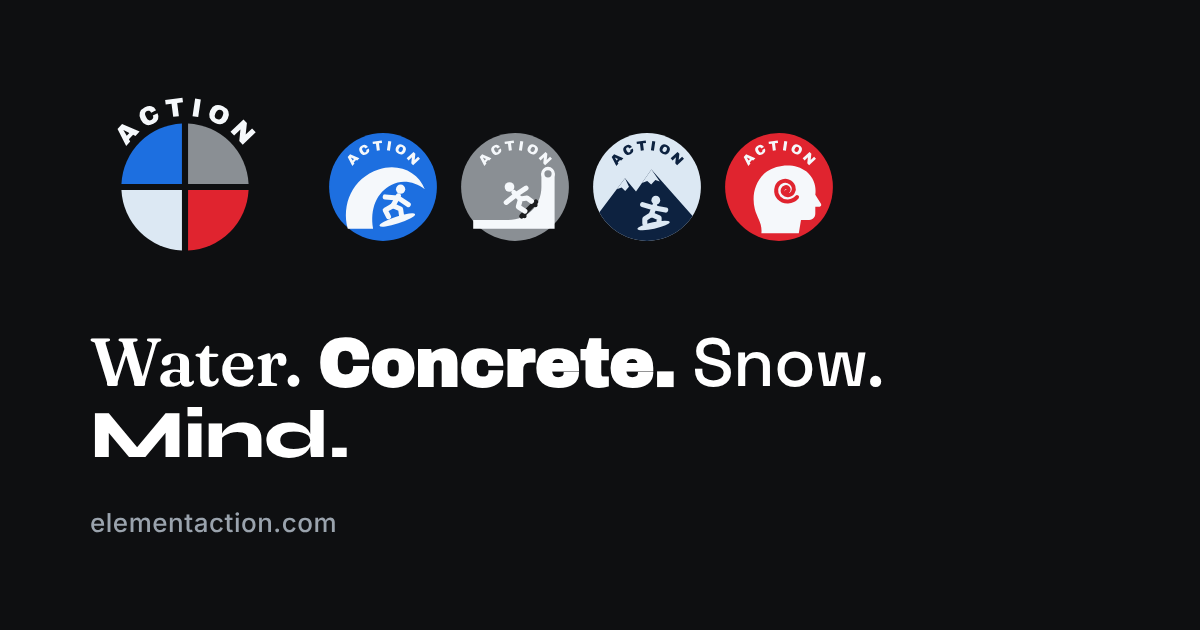
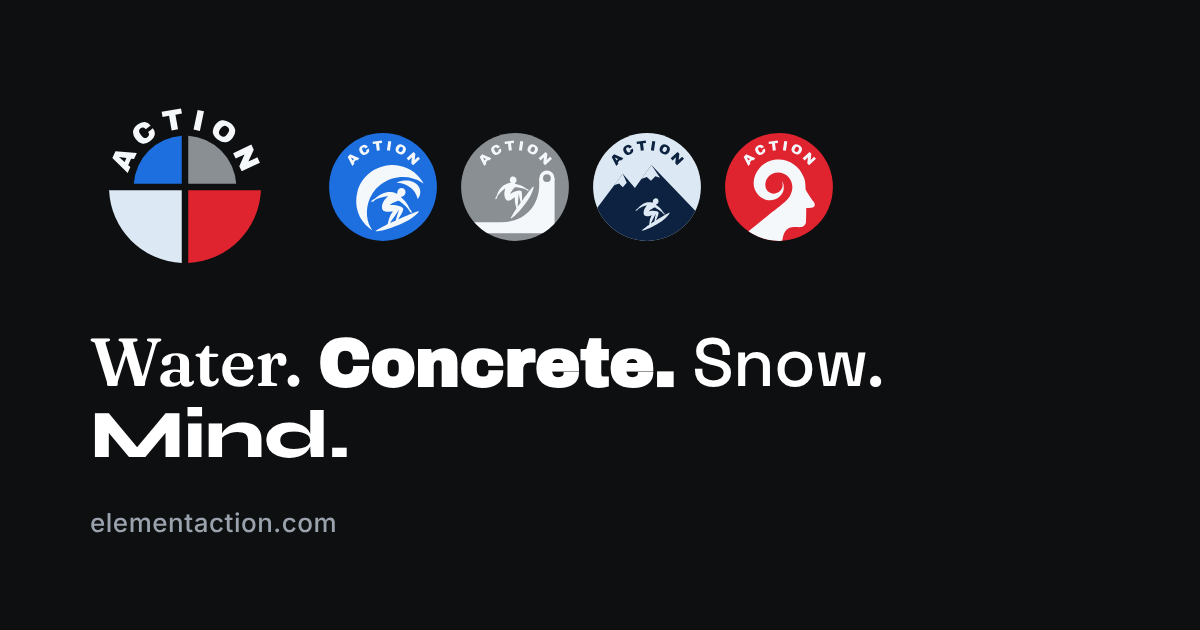
Märkena efter Martins utkast: spårade motiv för Water och Mind, rundmärket med mindre övre fält
Claude-Session: https://claude.ai/code/session_01STPYKS9MGx6UKJyGrrjUNw

diff --git a/src/components/Logo.tsx b/src/components/Logo.tsx
@@ -1,20 +1,22 @@
 import type { SectionId } from '@/lib/sections';
 import { ACTION_ARC_BADGE, ACTION_ARC_RING } from './brand-paths';
+import { MIND_HEAD, WATER_RIDER, WATER_WAVE } from './brand-traced';
 
 /**
  * ELEMENTACTIONS MÄRKEN — ritade efter Martins egna utkast.
  *
- * Huvudmärket: en cirkel delad i fyra färgfält (vatten blått, betong
- * grått, snö isvitt, mind rött) med en smal glipa emellan, och ordet
- * ACTION längs övre bågen. Ingen ytterring. Ordet "Element" står aldrig
- * i märket.
+ * Huvudmärket (efter Martins utkast): en cirkel delad i fyra färgfält
+ * (vatten blått, betong grått, snö isvitt, mind rött) med en glipa
+ * emellan. De övre fälten är mindre, och ordet ACTION ligger i bågen
+ * ovanför dem. Ordet "Element" står aldrig i märket.
  *
  * Sektionsmärkena: en rund bricka i sektionens färg, ACTION överst och
- * ett motiv i mitten:
- *   Water action     surfare i en brytande våg
- *   Concrete action  skejtare på väg upp i en quarterpipe
- *   Snow action      snowboardåkare som carvar under en bergstopp
- *   Mind action      huvud i profil med en spiral (tanken)
+ * ett motiv i mitten. Water och Mind är spårade från Martins utkast; samma
+ * åkarfigur används i Concrete och Snow så att alla fyra hänger ihop:
+ *   Water action     surfare i en brytande våg (Martins utkast)
+ *   Concrete action  åkaren på väg upp i en quarterpipe
+ *   Snow action      åkaren mot en bergssida med snötoppar
+ *   Mind action      huvud i profil med en spiral (Martins utkast)
  *
  * I små storlekar (menyn, mobilens bottenrad) går detaljerna inte att
  * se, så där används en förenklad variant: samma bricka utan text, med
@@ -35,82 +37,50 @@ export const BADGE: Record<SectionId, { bg: string; ink: string; text: string }>
   inspiration: { bg: '#e0242f', ink: WHITE, text: WHITE }
 };
 
-/** Detaljerade motiv i en 100×100-bricka, under ACTION-bågen. */
+/**
+ * Detaljerade motiv i en 100×100-bricka, under ACTION-bågen.
+ * Vågen, surfaren och huvudet är spårade direkt från Martins utkast
+ * (brand-traced.ts). Samma åkarfigur används i Concrete och Snow så att
+ * alla fyra märken har samma teckning.
+ */
+const BELOW_TEXT = 'translate(50 57) scale(0.8) translate(-50 -50)';
+
 function Motif({ section }: { section: SectionId }) {
   const { ink, bg } = BADGE[section];
-  const limb = { fill: 'none', stroke: ink, strokeWidth: 4.6, strokeLinecap: 'round' as const, strokeLinejoin: 'round' as const };
   switch (section) {
     case 'surfing':
       return (
-        <>
-          {/* vågen: en bred skärva som reser sig och rullar över */}
-          <path
-            d="M18 88C12 66 22 42 46 34c18-6 36 2 42 18-9-7-21-9-30-4-14 7-20 22-17 40z"
-            fill={ink}
-          />
-          {/* surfaren i tuben */}
-          <ellipse cx="63" cy="80" rx="17" ry="3.2" transform="rotate(-18 63 80)" fill={ink} />
-          <circle cx="66" cy="52" r="4.2" fill={ink} />
-          <path d="M64 58l-5 9" {...limb} />
-          <path d="M59 67l7 3 1 7M59 67l-7 4 3 6" {...limb} />
-          <path d="M63 60l-11-1M64 60l9 6" {...limb} />
-        </>
+        <g transform={BELOW_TEXT}>
+          <path d={WATER_WAVE} fill={ink} fillRule="evenodd" />
+          <path d={WATER_RIDER} fill={ink} fillRule="evenodd" />
+        </g>
       );
     case 'skateboard':
       return (
         <>
           {/* quarterpipe: flat, transition, lodrät vägg och coping */}
-          <path d="M12 88V80h32c17 0 30-13 30-30V38h12v50z" fill={ink} />
-          <circle cx="80" cy="38" r="4.8" fill={bg} stroke={ink} strokeWidth="3" />
-          {/* skejtaren på väg upp i transitionen: brädan längs ytan, kroppen lutad in mot rampen */}
-          <path d="M56 76.5l13-13" stroke="#1c1d1f" strokeWidth="4.4" strokeLinecap="round" />
-          <circle cx="58.6" cy="76.4" r="2" fill="#1c1d1f" />
-          <circle cx="68.6" cy="66.4" r="2" fill="#1c1d1f" />
-          <circle cx="45" cy="50" r="4.4" fill={ink} />
-          <path d="M49 55l6 6" {...limb} />
-          <path d="M55 61l-2 7 6 4M55 61l6-1 4 3" {...limb} />
-          <path d="M51 57l-9 7M51 57l9-6" {...limb} />
+          <path d="M10 92V82h28c20 0 34-14 34-34V42h14v50z" fill={ink} />
+          <circle cx="79" cy="42" r="5.2" fill={bg} stroke={ink} strokeWidth="3.4" />
+          {/* åkaren på väg upp i transitionen, lutad mot rampen */}
+          <g transform="translate(50 57) rotate(-30) scale(0.66) translate(-63 -66)">
+            <path d={WATER_RIDER} fill={ink} fillRule="evenodd" />
+          </g>
         </>
       );
     case 'snowboard':
       return (
         <>
-          <defs>
-            <clipPath id="ea-snow-clip">
-              <circle cx="50" cy="50" r="49" />
-            </clipPath>
-          </defs>
-          {/* bergskedjan med snötäcke, fyller brickans nedre del */}
-          <g clipPath="url(#ea-snow-clip)">
-            <path d="M0 82 30 42l10 12 14-20 46 52v20H0z" fill={ink} />
+          {/* bergskedjan med snötäcke */}
+          <path d="M-2 78 28 38l11 13 15-21 48 50v28H-2z" fill={ink} />
+          <path d="M28 38l-8 10.4 4.6-1.6 3.4 3.4 3.6-4zM54 30l-9.2 12.8 5-1.8 3.8 3.4 4-4.2 4.2 1.4z" fill={bg} />
+          {/* åkaren i ljust mot bergssidan */}
+          <g transform="translate(53 72) rotate(-8) scale(0.56) translate(-60 -62)">
+            <path d={WATER_RIDER} fill={bg} fillRule="evenodd" />
           </g>
-          <path d="M30 42l-7.5 10 4.4-1.6 3.3 3.2 3.4-3.8zM54 34l-8.6 12.3 4.8-1.8 3.6 3.2 3.8-4 4 1.4z" fill={bg} />
-          {/* åkaren i vitt mot bergssidan, carvar åt vänster */}
-          <ellipse cx="56" cy="85" rx="15" ry="3" transform="rotate(-12 56 85)" fill={bg} />
-          <circle cx="58" cy="62" r="4" fill={bg} />
-          <path d="M57 67l-3 8" stroke={bg} strokeWidth="4.6" strokeLinecap="round" fill="none" />
-          <path d="M54 75l7 3 0 5M54 75l-6 4 0 4" stroke={bg} strokeWidth="4.6" strokeLinecap="round" strokeLinejoin="round" fill="none" />
-          <path d="M56 69l-10-3M57 69l10 2" stroke={bg} strokeWidth="4.6" strokeLinecap="round" fill="none" />
         </>
       );
     case 'inspiration':
-      return (
-        <>
-          {/* huvud i profil som tittar åt höger, med nacke */}
-          <path
-            d="M34 92c1-9-4-14-6-22-3-12 0-26 11-34 10-7 26-8 36 0 7 6 9 14 8 21l5 8c1 2 0 3-2 3h-3v6c0 4-3 6-7 6h-6l-2 12z"
-            fill={ink}
-          />
-          {/* spiralen: tanken som vecklar ut sig */}
-          <path
-            d="M57 54c1.6 0 2.4-1.6 1.4-2.9-1.3-1.7-4.2-1.1-4.9 1-.9 2.9 1.6 5.6 4.7 5.4 4-.2 6.2-4.3 4.9-8-1.6-4.7-7.3-6.4-11.4-4-5.1 2.9-5.6 10.2-1.8 14.3 4.4 4.7 12.3 4.3 16.5-.6"
-            fill="none"
-            stroke={bg}
-            strokeWidth="3.6"
-            strokeLinecap="round"
-          />
-        </>
-      );
+      return <path d={MIND_HEAD} fill={ink} fillRule="evenodd" />;
   }
 }
 
@@ -164,11 +134,18 @@ export function SectionMark({ section, size = 32, className, title, detail }: Ma
       aria-label={title}
       aria-hidden={title ? undefined : true}
     >
+      <defs>
+        <clipPath id={`ea-badge-${section}`}>
+          <circle cx="50" cy="50" r="49" />
+        </clipPath>
+      </defs>
       <circle cx="50" cy="50" r="49" fill={bg} />
       {full ? (
         <>
           <path d={ACTION_ARC_BADGE} fill={text} />
-          <Motif section={section} />
+          <g clipPath={`url(#ea-badge-${section})`}>
+            <Motif section={section} />
+          </g>
         </>
       ) : (
         <SimpleMotif section={section} />
@@ -177,13 +154,17 @@ export function SectionMark({ section, size = 32, className, title, detail }: Ma
   );
 }
 
-const R = 33.5; // färgcirkelns radie
-const GAP = 1.6; // halva glipan mellan fälten
-const E = Math.sqrt(R * R - GAP * GAP); // där glipans kant möter cirkeln
+// Efter Martins utkast: de nedre fälten har full radie, de övre är mindre
+// så att ACTION får plats i bågen ovanför dem.
+const R_LOW = 40;
+const R_TOP = 27;
+const GAP = 1.7; // halva glipan mellan fälten
 const f = (n: number) => n.toFixed(2);
 
 /** Ett kvartsfält med glipa. sx/sy = riktning (−1 vänster/upp, +1 höger/ned). */
 function quadrant(sx: number, sy: number) {
+  const R = sy < 0 ? R_TOP : R_LOW;
+  const E = Math.sqrt(R * R - GAP * GAP);
   const x0 = 50 + sx * GAP;
   const y0 = 50 + sy * GAP;
   const sweep = sx * sy < 0 ? 1 : 0;

diff --git a/src/components/brand-paths.ts b/src/components/brand-paths.ts
@@ -1,5 +1,5 @@
 // Genererad av scripts/staging/action_arc.py — ordet ACTION som banor längs en övre båge.
 // RING: runt rundmärkets färgcirkel. BADGE: inuti ett sektionsmärke.
-export const ACTION_ARC_RING = "M23.93 23.11 22.69 22.5 20.45 24.91 21.15 26.1 19.05 28.37 14.49 19.46 16.88 16.89 26.11 20.76ZM19.34 23.02 20.72 21.53 17.6 19.97 17.56 20.01Z M34.77 9.58 32.2 10.89Q31.83 10.16 31.23 9.93Q30.63 9.69 29.92 10.05Q29.1 10.47 28.98 11.17Q28.86 11.88 29.32 12.79L29.72 13.57Q30.17 14.47 30.82 14.8Q31.47 15.12 32.26 14.72Q33.04 14.32 33.24 13.72Q33.43 13.11 33.06 12.38L35.55 11.12Q36.42 12.84 35.83 14.29Q35.24 15.73 33.31 16.71Q31.17 17.8 29.51 17.26Q27.85 16.72 26.76 14.58Q25.68 12.44 26.22 10.78Q26.77 9.12 28.91 8.04Q30.78 7.09 32.34 7.47Q33.89 7.85 34.77 9.58Z M45.9 5.77 46.78 12.71 43.79 13.09 42.91 6.15 39.84 6.54 39.54 4.15 48.65 3 48.95 5.38Z M53.97 12.78 55.34 3.48 58.33 3.92 56.95 13.22Z M72.5 14.06Q71.49 16.21 69.76 16.77Q68.03 17.33 65.83 16.3Q63.63 15.26 62.96 13.58Q62.29 11.9 63.31 9.74Q64.33 7.57 66.05 7.02Q67.77 6.46 69.97 7.49Q72.17 8.53 72.84 10.22Q73.51 11.9 72.5 14.06ZM66.29 10.66 65.92 11.45Q65.5 12.35 65.7 13.1Q65.91 13.84 66.79 14.26Q67.67 14.67 68.38 14.35Q69.09 14.04 69.52 13.14L69.89 12.35Q70.31 11.44 70.1 10.69Q69.89 9.94 69.01 9.53Q68.13 9.12 67.42 9.44Q66.72 9.75 66.29 10.66Z M78.57 25.78 79.17 19.78 75.86 22.91 73.95 20.9 80.78 14.44 82.59 16.35 81.94 22.4 85.31 19.22 87.21 21.24 80.38 27.7Z";
+export const ACTION_ARC_RING = "M23.17 35.32 21.62 35.11 20.09 38.49 21.26 39.51 19.82 42.68 11.77 34.77 13.41 31.17 24.66 32.04ZM18.22 36.86 19.17 34.77 15.28 34.22 15.25 34.27Z M31.91 17.59 29.32 19.56Q28.76 18.83 28.05 18.69Q27.34 18.56 26.63 19.1Q25.81 19.73 25.81 20.54Q25.82 21.35 26.52 22.27L27.12 23.05Q27.81 23.95 28.6 24.18Q29.38 24.41 30.17 23.8Q30.96 23.2 31.05 22.49Q31.15 21.77 30.59 21.04L33.08 19.13Q34.4 20.86 34.05 22.58Q33.69 24.31 31.75 25.79Q29.6 27.44 27.65 27.18Q25.7 26.93 24.05 24.77Q22.41 22.62 22.67 20.67Q22.94 18.72 25.09 17.07Q26.97 15.64 28.77 15.75Q30.58 15.85 31.91 17.59Z M44.96 11.91 46.34 19.67 42.98 20.27 41.61 12.5 38.18 13.11 37.71 10.44 47.9 8.63 48.38 11.3Z M54.5 19.79 56.65 9.41 59.98 10.09 57.84 20.48Z M75.22 23.95Q73.68 26.15 71.65 26.44Q69.63 26.73 67.38 25.16Q65.13 23.59 64.71 21.59Q64.3 19.6 65.84 17.39Q67.39 15.18 69.41 14.89Q71.42 14.6 73.67 16.17Q75.92 17.75 76.34 19.75Q76.76 21.76 75.22 23.95ZM68.98 18.98 68.41 19.79Q67.77 20.71 67.85 21.58Q67.94 22.45 68.84 23.08Q69.73 23.71 70.59 23.49Q71.44 23.28 72.08 22.36L72.65 21.55Q73.3 20.63 73.2 19.76Q73.11 18.88 72.21 18.26Q71.32 17.63 70.47 17.85Q69.62 18.06 68.98 18.98Z M78.57 39.07 81.32 32.84 76.67 35.04 75.33 32.21 84.92 27.69 86.19 30.38 83.36 36.63 88.09 34.4 89.42 37.23 79.84 41.76Z";
 
 export const ACTION_ARC_BADGE = "M26.57 25.98 25.43 25.43 23.4 27.65 24.04 28.74 22.13 30.82 17.92 22.69 20.1 20.32 28.55 23.83ZM22.37 25.92 23.63 24.55 20.76 23.14 20.73 23.18Z M36.32 13.69 33.97 14.89Q33.63 14.22 33.08 14.01Q32.53 13.8 31.88 14.13Q31.14 14.51 31.02 15.16Q30.91 15.8 31.34 16.64L31.7 17.35Q32.12 18.17 32.71 18.47Q33.3 18.76 34.03 18.39Q34.74 18.03 34.92 17.48Q35.1 16.92 34.76 16.25L37.03 15.09Q37.83 16.66 37.29 17.99Q36.76 19.32 35 20.21Q33.04 21.21 31.52 20.73Q30 20.24 29 18.28Q28 16.32 28.5 14.8Q29 13.28 30.96 12.29Q32.66 11.42 34.08 11.76Q35.51 12.11 36.32 13.69Z M46.34 10.24 47.14 16.59 44.4 16.94 43.6 10.59 40.8 10.95 40.52 8.76 48.85 7.71 49.13 9.89Z M53.54 16.66 54.8 8.15 57.53 8.56 56.27 17.06Z M70.32 17.79Q69.4 19.76 67.81 20.27Q66.23 20.78 64.22 19.83Q62.21 18.88 61.6 17.35Q60.99 15.81 61.92 13.83Q62.86 11.85 64.43 11.34Q66 10.83 68.02 11.78Q70.03 12.73 70.64 14.28Q71.25 15.82 70.32 17.79ZM64.65 14.67 64.31 15.4Q63.92 16.22 64.11 16.91Q64.3 17.59 65.1 17.97Q65.9 18.35 66.56 18.06Q67.21 17.77 67.6 16.95L67.94 16.23Q68.33 15.4 68.13 14.71Q67.94 14.03 67.14 13.65Q66.33 13.27 65.69 13.56Q65.04 13.85 64.65 14.67Z M75.71 28.44 76.28 22.95 73.24 25.8 71.5 23.95 77.77 18.07 79.42 19.83 78.8 25.36 81.89 22.46 83.63 24.31 77.36 30.2Z";

diff --git a/src/components/brand-traced.ts b/src/components/brand-traced.ts
@@ -1,0 +1,7 @@
+// Genererad av scripts/staging/trace_drafts.py från Martins egna utkast.
+// Koordinater i en 100×100-bricka (centrum 50,50, radie 49). Rita med fillRule="evenodd".
+export const WATER_WAVE = "M35.31 88.67C22.08 78.75 16.66 62.72 20.99 46.30C25.27 30.04 39.83 17.96 56.89 16.50C70.61 15.33 83.78 20.86 92.09 31.27C93.52 33.08 96.38 37.26 96.26 37.38C96.22 37.42 95.27 36.85 94.15 36.10C84.33 29.56 71.63 28.03 59.88 31.96C50.94 34.95 43.06 40.95 38.08 48.54C30.3 60.43 29.56 76.72 36.28 87.94C36.89 88.95 37.42 89.85 37.45 89.93C37.62 90.3 37.04 89.96 35.31 88.67ZM88.93 53.29C86.69 44.37 77.75 37.59 66.87 36.55L65.33 36.40L66.3 35.90C70.1 33.93 76.92 33.23 81.24 34.36C84.47 35.21 87.79 37.26 89.7 39.56C93.16 43.75 93.25 50.36 89.9 54.38L89.36 55.02L88.93 53.29Z";
+
+export const WATER_RIDER = "M41.8 91.47C41.29 91.13 42.76 90.16 48.62 86.97C50.62 85.89 52.91 84.69 53.71 84.31C55.37 83.52 55.33 83.57 55.93 80.86C56.84 76.68 58.37 73.02 60.26 70.48C60.85 69.69 61.31 69.01 61.27 68.97C61.23 68.93 60.29 69.03 59.17 69.20C52.23 70.23 48.74 68.6 48.74 64.32C48.74 60.7 50.68 56.83 54.23 53.32L55.99 51.59L54.74 51.73C50.7 52.16 45.31 53.65 42.35 55.13C40.96 55.84 39.27 57.31 38.7 58.34C38.37 58.93 37.94 58.46 38.26 57.86C38.6 57.22 38.35 57.16 37.25 57.63C36.7 57.86 36.21 58.01 36.17 57.97C35.94 57.74 37.88 56.04 38.98 55.51C39.66 55.19 40.84 54.36 41.61 53.67C45.33 50.32 50.17 47.87 54.42 47.18C57.5 46.68 62.69 47.34 65.0 48.53C65.44 48.75 65.88 48.93 65.98 48.93C66.07 48.93 66.19 48.3 66.24 47.53C66.45 44.43 68.47 42.33 71.25 42.33C74.64 42.33 76.62 45.86 75.14 49.27C74.32 51.15 71.91 52.7 70.39 52.31C70.01 52.22 70.59 52.9 72.57 54.88C76.4 58.7 78.28 61.37 79.9 65.23C80.45 66.54 80.74 66.99 81.33 67.40C82.08 67.92 82.7 69.2 82.7 70.22C82.7 70.78 82.21 70.81 81.91 70.26C81.71 69.87 81.69 69.87 81.43 70.21C81.19 70.54 81.14 70.5 80.77 69.66C80.54 69.15 80.16 68.5 79.92 68.20C79.67 67.9 79.22 67.23 78.92 66.70C78.06 65.2 74.41 61.79 70.02 58.38C68.4 57.12 68.03 56.91 67.59 57.01C65.37 57.55 60.59 59.65 58.44 61.04L57.37 61.73L59.7 61.74C66.87 61.75 73.0 63.9 73.0 66.40C73.0 67.85 71.56 70.89 68.81 75.29C67.91 76.73 67.19 77.93 67.22 77.96C67.25 77.98 68.36 77.53 69.7 76.94C75.41 74.45 86.19 70.08 88.84 69.20C89.96 68.82 90.36 68.76 90.57 68.93C90.99 69.28 90.54 69.94 88.68 71.78C82.41 77.97 71.89 83.57 57.96 88.16C51.34 90.34 42.74 92.1 41.8 91.47ZM64.32 79.22C64.4 79.14 64.99 77.33 65.62 75.21C66.24 73.08 67.07 70.44 67.46 69.34C68.23 67.14 68.26 66.75 67.58 67.97C66.74 69.45 64.02 73.48 61.16 77.46C59.59 79.65 58.2 81.63 58.08 81.86C57.9 82.2 58.43 82.01 61.02 80.82C62.75 80.02 64.24 79.3 64.32 79.22Z";
+
+export const MIND_HEAD = "M46.38 99.43C40.34 99.05 33.17 96.93 27.31 93.80C25.38 92.77 22.19 90.78 22.02 90.49C21.98 90.42 23.2 89.36 24.74 88.13C26.28 86.9 29.86 84.03 32.69 81.75C35.53 79.47 40.82 75.21 44.46 72.29C48.1 69.37 52.12 66.14 53.38 65.12C57.0 62.21 59.01 59.95 60.4 57.19C63.29 51.48 62.59 45.29 58.55 40.89C54.78 36.77 48.9 35.61 44.0 38.00C36.03 41.89 35.28 53.16 42.83 55.69C47.04 57.1 52.12 54.23 53.15 49.86C53.43 48.69 53.29 46.57 52.87 45.62C52.41 44.6 52.57 44.56 53.14 45.56C54.08 47.2 54.31 48.16 54.3 50.46C54.29 52.26 54.24 52.7 53.9 53.72C52.04 59.28 46.29 62.79 40.3 62.01C35.71 61.41 31.62 58.68 29.21 54.62C25.31 48.01 26.56 39.36 32.38 32.66C35.7 28.83 40.62 26.12 45.88 25.22C57.19 23.29 68.44 30.06 72.62 41.31C73.62 44.02 73.93 45.69 74.05 49.15C74.16 52.2 74.17 52.24 74.65 53.16C75.19 54.21 79.82 61.3 81.12 63.06C82.17 64.49 82.53 65.27 82.54 66.16C82.55 68.2 80.52 69.17 76.46 69.05L74.77 69.00L74.68 75.54C74.62 80.19 74.54 82.25 74.4 82.69C73.9 84.27 72.68 85.59 71.18 86.18C70.18 86.57 68.37 86.63 64.61 86.40C61.0 86.17 59.08 86.81 57.0 88.91C55.08 90.85 54.26 92.66 53.25 97.17L52.74 99.46L49.99 99.47C48.47 99.48 46.85 99.46 46.38 99.43Z";

diff --git a/scripts/staging/trace_drafts.py b/scripts/staging/trace_drafts.py
@@ -1,0 +1,69 @@
+"""Spårar Martins egna märkesutkast (PNG) till SVG-banor i en 100×100-bricka.
+Bokstäverna tas bort (ACTION läggs på i samma typsnitt i alla märken),
+kvar blir motiven: vågen + surfaren, och huvudet med spiralen."""
+import sys, numpy as np
+from PIL import Image
+from scipy import ndimage
+import potrace
+
+def load(path):
+    a = np.array(Image.open(path).convert('RGB')).astype(int)
+    col = np.abs(a - a[5, 5]).sum(2) > 60
+    ys, xs = np.nonzero(col)
+    cx, cy, R = (xs.min() + xs.max()) / 2, (ys.min() + ys.max()) / 2, (xs.max() - xs.min()) / 2
+    white = (a.min(2) > 170) & col
+    lab, _ = ndimage.label(white)
+    return lab, cx, cy, R
+
+def trace(mask, cx, cy, R):
+    k = 49 / R
+    T = lambda p: (50 + (p.x - cx) * k, 50 + (p.y - cy) * k)
+    bm = potrace.Bitmap(~mask)  # potracer behandlar False som förgrund
+    plist = bm.trace(turdsize=8, alphamax=1.0, opticurve=True, opttolerance=0.3)
+    out = []
+    fmt = lambda p: f'{T(p)[0]:.2f} {T(p)[1]:.2f}'
+    for curve in plist:
+        parts = [f'M{fmt(curve.start_point)}']
+        for seg in curve.segments:
+            if seg.is_corner:
+                parts.append(f'L{fmt(seg.c)}L{fmt(seg.end_point)}')
+            else:
+                parts.append(f'C{fmt(seg.c1)} {fmt(seg.c2)} {fmt(seg.end_point)}')
+        parts.append('Z')
+        out.append(''.join(parts))
+    d = ''.join(out)
+    import re
+    return re.sub(r'(\d+\.\d)0\b', r'\1', d)
+
+def parts(lab, cx, cy, R):
+    """Delar upp i motivdelar; bokstäverna (små delar nära kanten) tas bort."""
+    keep = []
+    for i in range(1, lab.max() + 1):
+        yy, xx = np.nonzero(lab == i)
+        if len(xx) < 40:
+            continue
+        d = np.hypot(xx.mean() - cx, yy.mean() - cy) / R
+        if d > 0.74 and len(xx) < 8000:
+            continue  # en bokstav i ACTION
+        keep.append((i, len(xx), xx.mean(), yy.mean()))
+    return keep
+
+src = sys.argv[1]
+lab, cx, cy, R = load(f'{src}/water.png')
+kp = parts(lab, cx, cy, R)
+print('water parts', [(i, a, int(x), int(y)) for i, a, x, y in kp])
+# surfaren+brädan är delen vars tyngdpunkt ligger lägst till höger; resten är vågen
+rider_id = max(kp, key=lambda t: t[2] + t[3])[0]
+wave = trace(np.isin(lab, [i for i, *_ in kp if i != rider_id]), cx, cy, R)
+rider = trace(lab == rider_id, cx, cy, R)
+lab, cx, cy, R = load(f'{src}/mind.png')
+kp = parts(lab, cx, cy, R)
+print('mind parts', [(i, a, int(x), int(y)) for i, a, x, y in kp])
+head = trace(np.isin(lab, [i for i, *_ in kp]), cx, cy, R)
+open('src/components/brand-traced.ts', 'w').write(
+    '// Genererad av scripts/staging/trace_drafts.py från Martins egna utkast.\n'
+    '// Koordinater i en 100×100-bricka (centrum 50,50, radie 49). Rita med fillRule="evenodd".\n'
+    f'export const WATER_WAVE = "{wave}";\n\n'
+    f'export const WATER_RIDER = "{rider}";\n\n'
+    f'export const MIND_HEAD = "{head}";\n')
+print('ok', len(wave), len(rider), len(head))

diff --git a/scripts/staging/action_arc.py b/scripts/staging/action_arc.py
@@ -29,7 +29,7 @@ def arc(text, r, cap_h, track, cx=50, cy=50):
     d = ' '.join(out)
     return re.sub(r'-?\d+\.\d+', lambda m: ('%.2f' % float(m.group())).rstrip('0').rstrip('.'), d)
 
-ring = arc("ACTION", 37.4, 9.4, 2.6)
+ring = arc("ACTION", 30.5, 10.6, 3.0)
 badge = arc('ACTION', 33.5, 8.6, 2.2)
 open('src/components/brand-paths.ts', 'w').write(
     '// Genererad av scripts/staging/action_arc.py — ordet ACTION som banor längs en övre båge.\n'

diff --git a/README.md b/README.md
@@ -4,10 +4,10 @@
 
 | Sektion | Märke | Färg | Rubrikfont | Bildvärld |
 |---|---|---|---|---|
-| Surfing | Water action (surfare i våg) | blå | Fraunces | dyningslinjer och en brytande våg |
+| Surfing | Water action (surfare i våg, Martins utkast) | blå | Fraunces | dyningslinjer och en brytande våg |
 | Skateboard | Concrete action (skejtare i quarterpipe) | grå | Archivo Black | betongfogar, bowl och bräda |
 | Snowboard | Snow action (åkare under bergstopp) | vit | Space Grotesk | berg i lager med fallande snö |
-| Inspiration | Mind action (huvud med spiral) | röd på titan | Syne | böjda titanvolymer, som Guggenheim i Bilbao |
+| Inspiration | Mind action (huvud med spiral, Martins utkast) | röd på titan | Syne | böjda titanvolymer, som Guggenheim i Bilbao |
 
 Huvudmärket är en cirkel delad i de fyra sektionsfärgerna med ACTION längs övre bågen. Sektionsmärkena är runda brickor med ACTION överst och ett motiv; i menyn används förenklade varianter utan text. Namnet skrivs alltid
 som ett ord, **Elementaction**. Märkena finns som SVG i `public/brand/`
